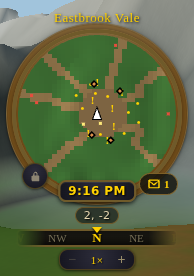
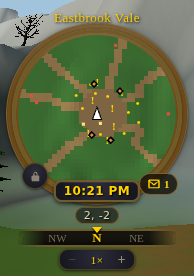
fix(ui): keep the minimap clock on one line at phone chrome scale
Testing the previous commit at real iPhone 12 mini metrics (375x812, DPR 3)
showed the readout wrapping onto two lines and spilling over
#minimap-coords. Moving the clock into #minimap-disc changed how its width
is resolved: an absolutely positioned box with left: 50% shrink-to-fits
against only the REMAINING half of the containing block, 85px of the 170px
disc, which a 12-hour readout like "10:13 PM" overflows. white-space:
nowrap removes that failure mode for every locale and format, not just the
en 24-hour case that happened to fit.

The mobile font-size bump the previous commit introduced is dropped with
it: it was an invented value that made the overflow certain, and the clock
should ride the wrapper's chrome scale like the rest of the cluster. There
is now no mobile rule for it at all.

The placement suite grew a nowrap pin and no longer slices from a -1
indexOf, which would have passed vacuously once that mobile rule was gone.
The browser suite counts the text node's client rects, one per rendered
line, which is what catches a wrap; the element's own bounding box stays a
single healthy rect either way. Screenshots re-taken on the final CSS, plus
an iPhone-12-mini landscape pair (the game gates phones to landscape via
#rotate-device, so portrait has no HUD to shoot).

Claude-Session: https://claude.ai/code/session_0138CvhmmPR3oRyWRafXTvNb

diff --git a/tests/minimap_clock_placement.test.ts b/tests/minimap_clock_placement.test.ts
@@ -91,14 +91,26 @@ describe('minimap clock placement', () => {
     expect(zoomRule).toMatch(/z-index:\s*2/);
   });
 
+  it('keeps the readout on one line inside the half-width shrink-to-fit', () => {
+    // An absolutely positioned box with `left: 50%` shrink-to-fits against only
+    // the REMAINING half of its containing block, i.e. 85px of the 170px disc. A
+    // 12-hour readout ("10:13 PM") is wider than that, so without nowrap the pill
+    // wraps to two lines and spills over #minimap-coords. Caught at
+    // iPhone-12-mini metrics, not on desktop, where the 24-hour default fits.
+    expect(ruleBody(hudCss, '#minimap-clock')).toMatch(/white-space:\s*nowrap/);
+  });
+
   it('does not re-parent the clock into flow on mobile touch', () => {
     // The old mobile rule made the clock a static flex child ordered under the
     // compass. That only worked while it was a direct child of the flex
     // #minimap-wrap; inside #minimap-disc `order` is inert, `position: static`
     // drops it into the canvas's flow, and `transform: none` would also cancel
-    // the translateX(-50%) that centres it on the rim.
-    const mobile = hudMobileCss.slice(hudMobileCss.indexOf('body.mobile-touch #minimap-clock'));
-    const rule = mobile.slice(0, mobile.indexOf('}') + 1);
+    // the translateX(-50%) that centres it on the rim. Today there is no mobile
+    // rule at all, which satisfies this; assert that explicitly rather than
+    // slicing from a -1 indexOf, which would pass vacuously either way.
+    const at = hudMobileCss.indexOf('body.mobile-touch #minimap-clock {');
+    if (at === -1) return;
+    const rule = hudMobileCss.slice(at, hudMobileCss.indexOf('}', at) + 1);
     expect(rule).not.toMatch(/position:\s*static/);
     expect(rule).not.toMatch(/transform:\s*none/);
     expect(rule).not.toMatch(/order:/);

diff --git a/src/styles/hud.mobile.css b/src/styles/hud.mobile.css
@@ -2033,14 +2033,12 @@
   body.mobile-touch #compass {
     order: 3;
   }
-  /* The clock is a rim element of #minimap-disc on every viewport, so touch keeps
-     the desktop anchoring (the old rule made it a static flex child ordered under
-     the compass, which only worked while it was a direct child of this flex wrap;
-     `transform: none` there would now also cancel the centring translate). Touch
-     hides #minimap-zoom, so the rim is uncontested. */
-  body.mobile-touch #minimap-clock {
-    font-size: 13px;
-  }
+  /* #minimap-clock deliberately has NO mobile rule: it is a rim element of
+     #minimap-disc on every viewport and rides this wrapper's chrome scale like the
+     rest of the cluster. The rule that used to live here made it a static flex
+     child ordered under the compass, which only worked while it was a direct child
+     of this flex wrap; `transform: none` there would now also cancel the centring
+     translate. Touch hides #minimap-zoom, so the rim is uncontested. */
   /* The minimap wrapper is scaled down on touch, so counter-scale the disc
      controls and place them in a row below the aura strip, left of the map. */
   body.mobile-touch #raid-lockout {

diff --git a/tests/browser/minimap_clock_visible.browser.test.ts b/tests/browser/minimap_clock_visible.browser.test.ts
@@ -84,6 +84,23 @@ describe('minimap clock visibility', () => {
     expect(clock.bottom).toBeLessThanOrEqual(disc.bottom + 6);
   });
 
+  it('renders the widest readout on a single line', () => {
+    // `left: 50%` leaves an absolutely positioned box only the REMAINING half of
+    // #minimap-disc (85px) to shrink-to-fit into, which the 12-hour format
+    // overflows. Counting the text node's client rects is the honest check: a
+    // wrapped text node yields one rect PER LINE, while the element's own
+    // getBoundingClientRect stays a single healthy box either way.
+    const clock = el('minimap-clock');
+    clock.textContent = '10:13 PM';
+
+    const range = document.createRange();
+    range.selectNodeContents(clock);
+    expect(range.getClientRects().length).toBe(1);
+
+    // ...and the pill must still clear the coords row it would otherwise spill onto.
+    expect(overlaps(rect('minimap-clock'), rect('minimap-coords'))).toBe(false);
+  });
+
   it('does not collide with the coordinate readout below it (desktop)', () => {
     // #minimap-coords is in normal flow right under the disc; the clock hangs
     // past the rim, so a too-large negative offset would sit on top of it.

diff --git a/src/styles/hud.css b/src/styles/hud.css
@@ -2841,13 +2841,19 @@
      #minimap-zoom. z-index 3 puts it on the same rim layer as the badges, above
      both the gilded ::before ring and the zoom pill. The explicit line-height
      undoes #minimap-disc's `line-height: 0` (a canvas wrapper), which would
-     otherwise collapse the digits. */
+     otherwise collapse the digits. `white-space: nowrap` is load-bearing, not
+     cosmetic: an absolutely positioned box with `left: 50%` shrink-to-fits
+     against only the REMAINING half of the containing block (85px of the disc),
+     which a 12-hour readout like "10:13 PM" overflows, wrapping the pill onto two
+     lines and pushing it over #minimap-coords. Reproduced at iPhone-12-mini
+     metrics. */
   #minimap-clock {
     position: absolute;
     left: 50%;
     bottom: -3px;
     z-index: 3;
     transform: translateX(-50%);
+    white-space: nowrap;
     min-width: 52px;
     padding: 1px 8px;
     cursor: pointer;
